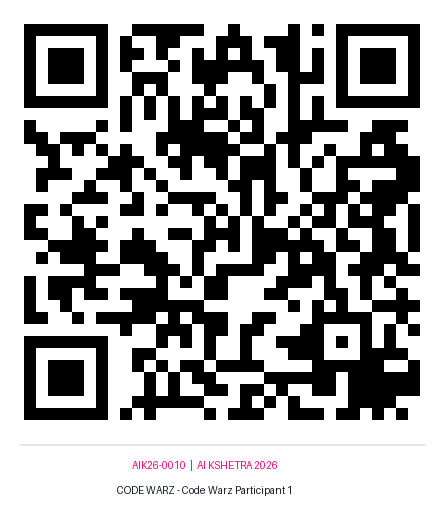
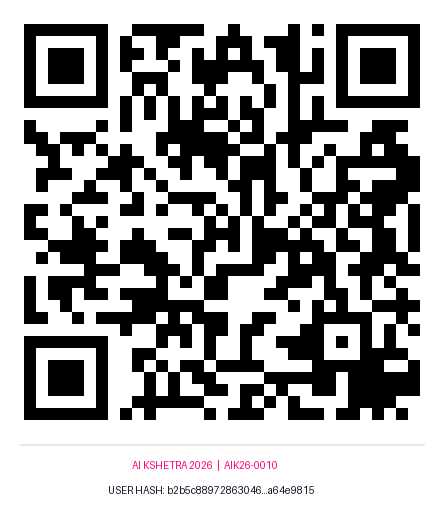
feat: update physical QR codes with user hash and AI Kshetra 2026 header, remove participant name line

Changed region(s): [[0.2342, 0.855, 0.7027, 0.9466]]

diff --git a/certificates/qrs/print_sheet.html b/certificates/qrs/print_sheet.html
@@ -17,9 +17,9 @@
       background: #fafafa;
     }
     .qr-card img { width: 140px; height: auto; display: block; margin: 0 auto; }
-    .qr-id { font-weight: bold; font-size: 12px; color: #ff007a; margin-top: 4px; }
-    .qr-name { font-size: 10px; font-weight: bold; margin-top: 2px; }
-    .qr-event { font-size: 9px; color: #444; }
+    .qr-id { font-weight: bold; font-size: 11px; color: #ff007a; margin-top: 4px; }
+    .qr-event { font-size: 9px; font-weight: bold; color: #111; margin-top: 2px; }
+    .qr-hash { font-size: 8px; color: #444; word-break: break-all; margin-top: 2px; }
     .qr-url { font-size: 7px; color: #777; word-break: break-all; margin-top: 4px; }
     @media print {
       .no-print { display: none; }
@@ -38,128 +38,128 @@
   <div class="grid">
     <div class="qr-card">
       <img src="AIK26-0001_OpenSesame.png" alt="AIK26-0001">
-      <div class="qr-id">AIK26-0001</div>
-      <div class="qr-name">Open Sesame Winner 1</div>
+      <div class="qr-id">AIK26-0001 &bull; AI KSHETRA 2026</div>
       <div class="qr-event">OPEN SESAME</div>
+      <div class="qr-hash">USER HASH: 79a1458e4391d2b5...6668933d</div>
       <div class="qr-url">https://nexaa-aiml.github.io/ak-certs/verify/?id=AIK26-0001</div>
     </div>
     <div class="qr-card">
       <img src="AIK26-0002_OpenSesame.png" alt="AIK26-0002">
-      <div class="qr-id">AIK26-0002</div>
-      <div class="qr-name">Open Sesame Winner 2</div>
+      <div class="qr-id">AIK26-0002 &bull; AI KSHETRA 2026</div>
       <div class="qr-event">OPEN SESAME</div>
+      <div class="qr-hash">USER HASH: 91230d269330c244...a994e4c7</div>
       <div class="qr-url">https://nexaa-aiml.github.io/ak-certs/verify/?id=AIK26-0002</div>
     </div>
     <div class="qr-card">
       <img src="AIK26-0003_OpenSesame.png" alt="AIK26-0003">
-      <div class="qr-id">AIK26-0003</div>
-      <div class="qr-name">Open Sesame Winner 3</div>
+      <div class="qr-id">AIK26-0003 &bull; AI KSHETRA 2026</div>
       <div class="qr-event">OPEN SESAME</div>
+      <div class="qr-hash">USER HASH: 442134e2916e8932...0c6390bd</div>
       <div class="qr-url">https://nexaa-aiml.github.io/ak-certs/verify/?id=AIK26-0003</div>
     </div>
     <div class="qr-card">
       <img src="AIK26-0004_OpenSesame.png" alt="AIK26-0004">
-      <div class="qr-id">AIK26-0004</div>
-      <div class="qr-name">Open Sesame Participant 1</div>
+      <div class="qr-id">AIK26-0004 &bull; AI KSHETRA 2026</div>
       <div class="qr-event">OPEN SESAME</div>
+      <div class="qr-hash">USER HASH: e95c04c45e4e0671...665875e7</div>
       <div class="qr-url">https://nexaa-aiml.github.io/ak-certs/verify/?id=AIK26-0004</div>
     </div>
     <div class="qr-card">
       <img src="AIK26-0005_OpenSesame.png" alt="AIK26-0005">
-      <div class="qr-id">AIK26-0005</div>
-      <div class="qr-name">Open Sesame Participant 2</div>
+      <div class="qr-id">AIK26-0005 &bull; AI KSHETRA 2026</div>
       <div class="qr-event">OPEN SESAME</div>
+      <div class="qr-hash">USER HASH: 00d8a93b1da274e6...f645550b</div>
       <div class="qr-url">https://nexaa-aiml.github.io/ak-certs/verify/?id=AIK26-0005</div>
     </div>
     <div class="qr-card">
       <img src="AIK26-0006_OpenSesame.png" alt="AIK26-0006">
-      <div class="qr-id">AIK26-0006</div>
-      <div class="qr-name">Open Sesame Participant 3</div>
+      <div class="qr-id">AIK26-0006 &bull; AI KSHETRA 2026</div>
       <div class="qr-event">OPEN SESAME</div>
+      <div class="qr-hash">USER HASH: 28e2bc8c05ed2bf1...f43ccdd2</div>
       <div class="qr-url">https://nexaa-aiml.github.io/ak-certs/verify/?id=AIK26-0006</div>
     </div>
     <div class="qr-card">
       <img src="AIK26-0007_CodeWarz.png" alt="AIK26-0007">
-      <div class="qr-id">AIK26-0007</div>
-      <div class="qr-name">Code Warz Winner 1</div>
+      <div class="qr-id">AIK26-0007 &bull; AI KSHETRA 2026</div>
       <div class="qr-event">CODE WARZ</div>
+      <div class="qr-hash">USER HASH: 7fd4118337091265...8631b5dd</div>
       <div class="qr-url">https://nexaa-aiml.github.io/ak-certs/verify/?id=AIK26-0007</div>
     </div>
     <div class="qr-card">
       <img src="AIK26-0008_CodeWarz.png" alt="AIK26-0008">
-      <div class="qr-id">AIK26-0008</div>
-      <div class="qr-name">Code Warz Winner 2</div>
+      <div class="qr-id">AIK26-0008 &bull; AI KSHETRA 2026</div>
       <div class="qr-event">CODE WARZ</div>
+      <div class="qr-hash">USER HASH: fa145aa8db8e43f5...017b852c</div>
       <div class="qr-url">https://nexaa-aiml.github.io/ak-certs/verify/?id=AIK26-0008</div>
     </div>
     <div class="qr-card">
       <img src="AIK26-0009_CodeWarz.png" alt="AIK26-0009">
-      <div class="qr-id">AIK26-0009</div>
-      <div class="qr-name">Code Warz Winner 3</div>
+      <div class="qr-id">AIK26-0009 &bull; AI KSHETRA 2026</div>
       <div class="qr-event">CODE WARZ</div>
+      <div class="qr-hash">USER HASH: 315aca9c2a0ebf95...1daf29d5</div>
       <div class="qr-url">https://nexaa-aiml.github.io/ak-certs/verify/?id=AIK26-0009</div>
     </div>
     <div class="qr-card">
       <img src="AIK26-0010_CodeWarz.png" alt="AIK26-0010">
-      <div class="qr-id">AIK26-0010</div>
-      <div class="qr-name">Code Warz Participant 1</div>
+      <div class="qr-id">AIK26-0010 &bull; AI KSHETRA 2026</div>
       <div class="qr-event">CODE WARZ</div>
+      <div class="qr-hash">USER HASH: b2b5c88972863046...a64e9815</div>
       <div class="qr-url">https://nexaa-aiml.github.io/ak-certs/verify/?id=AIK26-0010</div>
     </div>
     <div class="qr-card">
       <img src="AIK26-0011_CodeWarz.png" alt="AIK26-0011">
-      <div class="qr-id">AIK26-0011</div>
-      <div class="qr-name">Code Warz Participant 2</div>
+      <div class="qr-id">AIK26-0011 &bull; AI KSHETRA 2026</div>
       <div class="qr-event">CODE WARZ</div>
+      <div class="qr-hash">USER HASH: 5926ee460894709e...23af8ab5</div>
       <div class="qr-url">https://nexaa-aiml.github.io/ak-certs/verify/?id=AIK26-0011</div>
     </div>
     <div class="qr-card">
       <img src="AIK26-0012_CodeWarz.png" alt="AIK26-0012">
-      <div class="qr-id">AIK26-0012</div>
-      <div class="qr-name">Code Warz Participant 3</div>
+      <div class="qr-id">AIK26-0012 &bull; AI KSHETRA 2026</div>
       <div class="qr-event">CODE WARZ</div>
+      <div class="qr-hash">USER HASH: 1ab9fcdbf210f20c...6c6c5e4e</div>
       <div class="qr-url">https://nexaa-aiml.github.io/ak-certs/verify/?id=AIK26-0012</div>
     </div>
     <div class="qr-card">
       <img src="AIK26-0013_WorldofAgents.png" alt="AIK26-0013">
-      <div class="qr-id">AIK26-0013</div>
-      <div class="qr-name">World of Agents Winner 1</div>
+      <div class="qr-id">AIK26-0013 &bull; AI KSHETRA 2026</div>
       <div class="qr-event">WORLD OF AGENTS</div>
+      <div class="qr-hash">USER HASH: 0ddb3a37131b0365...7a529bf2</div>
       <div class="qr-url">https://nexaa-aiml.github.io/ak-certs/verify/?id=AIK26-0013</div>
     </div>
     <div class="qr-card">
       <img src="AIK26-0014_WorldofAgents.png" alt="AIK26-0014">
-      <div class="qr-id">AIK26-0014</div>
-      <div class="qr-name">World of Agents Winner 2</div>
+      <div class="qr-id">AIK26-0014 &bull; AI KSHETRA 2026</div>
       <div class="qr-event">WORLD OF AGENTS</div>
+      <div class="qr-hash">USER HASH: a579997a628cf9d5...5c51c98b</div>
       <div class="qr-url">https://nexaa-aiml.github.io/ak-certs/verify/?id=AIK26-0014</div>
     </div>
     <div class="qr-card">
       <img src="AIK26-0015_WorldofAgents.png" alt="AIK26-0015">
-      <div class="qr-id">AIK26-0015</div>
-      <div class="qr-name">World of Agents Winner 3</div>
+      <div class="qr-id">AIK26-0015 &bull; AI KSHETRA 2026</div>
       <div class="qr-event">WORLD OF AGENTS</div>
+      <div class="qr-hash">USER HASH: 9b0afb8bb9c696c5...131fcbd1</div>
       <div class="qr-url">https://nexaa-aiml.github.io/ak-certs/verify/?id=AIK26-0015</div>
     </div>
     <div class="qr-card">
       <img src="AIK26-0016_WorldofAgents.png" alt="AIK26-0016">
-      <div class="qr-id">AIK26-0016</div>
-      <div class="qr-name">World of Agents Participant 1</div>
+      <div class="qr-id">AIK26-0016 &bull; AI KSHETRA 2026</div>
       <div class="qr-event">WORLD OF AGENTS</div>
+      <div class="qr-hash">USER HASH: bdfe352ab73cd5fe...387b8574</div>
       <div class="qr-url">https://nexaa-aiml.github.io/ak-certs/verify/?id=AIK26-0016</div>
     </div>
     <div class="qr-card">
       <img src="AIK26-0017_WorldofAgents.png" alt="AIK26-0017">
-      <div class="qr-id">AIK26-0017</div>
-      <div class="qr-name">World of Agents Participant 2</div>
+      <div class="qr-id">AIK26-0017 &bull; AI KSHETRA 2026</div>
       <div class="qr-event">WORLD OF AGENTS</div>
+      <div class="qr-hash">USER HASH: 3037a3f4294a8136...e49f6a88</div>
       <div class="qr-url">https://nexaa-aiml.github.io/ak-certs/verify/?id=AIK26-0017</div>
     </div>
     <div class="qr-card">
       <img src="AIK26-0018_WorldofAgents.png" alt="AIK26-0018">
-      <div class="qr-id">AIK26-0018</div>
-      <div class="qr-name">World of Agents Participant 3</div>
+      <div class="qr-id">AIK26-0018 &bull; AI KSHETRA 2026</div>
       <div class="qr-event">WORLD OF AGENTS</div>
+      <div class="qr-hash">USER HASH: 82c9f28963d9c04d...174cb13e</div>
       <div class="qr-url">https://nexaa-aiml.github.io/ak-certs/verify/?id=AIK26-0018</div>
     </div>
   </div>

diff --git a/scripts/generate_physical_qrs.py b/scripts/generate_physical_qrs.py
@@ -62,10 +62,10 @@ def get_verification_url(cert_id: str) -> str:
     return f"{SITE_BASE_URL.rstrip('/')}/verify/?id={cert_id}"
 
 
-def generate_high_res_qr(cert_id: str, event_name: str, participant_name: str, url: str) -> str:
+def generate_high_res_qr(cert_id: str, event_name: str, phone_hash: str, url: str) -> str:
     """
     Generates a crisp high-resolution QR image suitable for physical printing (600x680 px)
-    with a clean label containing Certificate ID and Event.
+    displaying AI KSHETRA 2026, Certificate ID, and User Hash (no participant name).
     """
     qr = qrcode.QRCode(
         version=1,
@@ -86,18 +86,20 @@ def generate_high_res_qr(cert_id: str, event_name: str, participant_name: str, u
     final_img.paste(qr_img, (0, 0))
 
     draw = ImageDraw.Draw(final_img)
-    # Simple default font rendering
     font = ImageFont.load_default()
 
     # Draw separator line
     draw.line([(20, height), (width - 20, height)], fill="#e5e7eb", width=2)
 
-    # Clean text labels
-    text_id = f"{cert_id}  |  AI KSHETRA 2026"
-    text_event = f"{event_name.upper()} - {participant_name}"
+    # Line 1: AI KSHETRA 2026 | ID
+    text_line1 = f"AI KSHETRA 2026  |  {cert_id}"
     
-    draw.text((width // 2 - len(text_id) * 3, height + 15), text_id, fill="#ff007a", font=font)
-    draw.text((width // 2 - len(text_event) * 3, height + 40), text_event, fill="#111827", font=font)
+    # Line 2: User Hash (formatted nicely)
+    short_hash = f"{phone_hash[:16]}...{phone_hash[-8:]}" if len(phone_hash) >= 24 else phone_hash
+    text_line2 = f"USER HASH: {short_hash}"
+
+    draw.text((width // 2 - len(text_line1) * 3, height + 15), text_line1, fill="#ff007a", font=font)
+    draw.text((width // 2 - len(text_line2) * 3, height + 40), text_line2, fill="#111827", font=font)
 
     safe_event = re.sub(r'[^a-zA-Z0-9]', '', event_name)
     filename = f"{cert_id}_{safe_event}.png"
@@ -123,15 +125,15 @@ def main():
             event = row['event'].strip()
             phone = row['phone'].strip()
             norm_phone = normalize_phone_number(phone)
-
+            phone_hash = hash_phone(norm_phone) if norm_phone else ""
             verify_url = get_verification_url(cert_id)
-            qr_filename = generate_high_res_qr(cert_id, event, name, verify_url)
+            qr_filename = generate_high_res_qr(cert_id, event, phone_hash, verify_url)
 
             qr_manifest.append({
                 "certificateId": cert_id,
                 "event": event,
                 "eventTrack": row.get('eventTrack', '').strip(),
-                "participantName": name,
+                "phoneHash": phone_hash,
                 "verificationUrl": verify_url,
                 "qrFilename": qr_filename,
                 "qrPath": f"certificates/qrs/{qr_filename}"
@@ -139,7 +141,7 @@ def main():
 
             records.append({
                 "certificateId": cert_id,
-                "phoneHash": hash_phone(norm_phone) if norm_phone else "",
+                "phoneHash": phone_hash,
                 "name": name,
                 "event": event,
                 "eventTrack": row.get('eventTrack', '').strip(),
@@ -159,7 +161,7 @@ def main():
     # Save data/qr_links.csv
     with open(QR_LINKS_CSV, 'w', newline='', encoding='utf-8') as f:
         writer = csv.DictWriter(f, fieldnames=[
-            "certificateId", "event", "eventTrack", "participantName", "verificationUrl", "qrFilename", "qrPath"
+            "certificateId", "event", "eventTrack", "phoneHash", "verificationUrl", "qrFilename", "qrPath"
         ])
         writer.writeheader()
         writer.writerows(qr_manifest)
@@ -206,9 +208,9 @@ def generate_html_print_sheet(manifest):
       background: #fafafa;
     }
     .qr-card img { width: 140px; height: auto; display: block; margin: 0 auto; }
-    .qr-id { font-weight: bold; font-size: 12px; color: #ff007a; margin-top: 4px; }
-    .qr-name { font-size: 10px; font-weight: bold; margin-top: 2px; }
-    .qr-event { font-size: 9px; color: #444; }
+    .qr-id { font-weight: bold; font-size: 11px; color: #ff007a; margin-top: 4px; }
+    .qr-event { font-size: 9px; font-weight: bold; color: #111; margin-top: 2px; }
+    .qr-hash { font-size: 8px; color: #444; word-break: break-all; margin-top: 2px; }
     .qr-url { font-size: 7px; color: #777; word-break: break-all; margin-top: 4px; }
     @media print {
       .no-print { display: none; }
@@ -227,11 +229,12 @@ def generate_html_print_sheet(manifest):
   <div class="grid">
 """
     for item in manifest:
+        short_hash = f"{item['phoneHash'][:16]}...{item['phoneHash'][-8:]}" if len(item['phoneHash']) >= 24 else item['phoneHash']
         html += f"""    <div class="qr-card">
       <img src="{item['qrFilename']}" alt="{item['certificateId']}">
-      <div class="qr-id">{item['certificateId']}</div>
-      <div class="qr-name">{item['participantName']}</div>
+      <div class="qr-id">{item['certificateId']} &bull; AI KSHETRA 2026</div>
       <div class="qr-event">{item['event'].upper()}</div>
+      <div class="qr-hash">USER HASH: {short_hash}</div>
       <div class="qr-url">{item['verificationUrl']}</div>
     </div>\n"""
 
